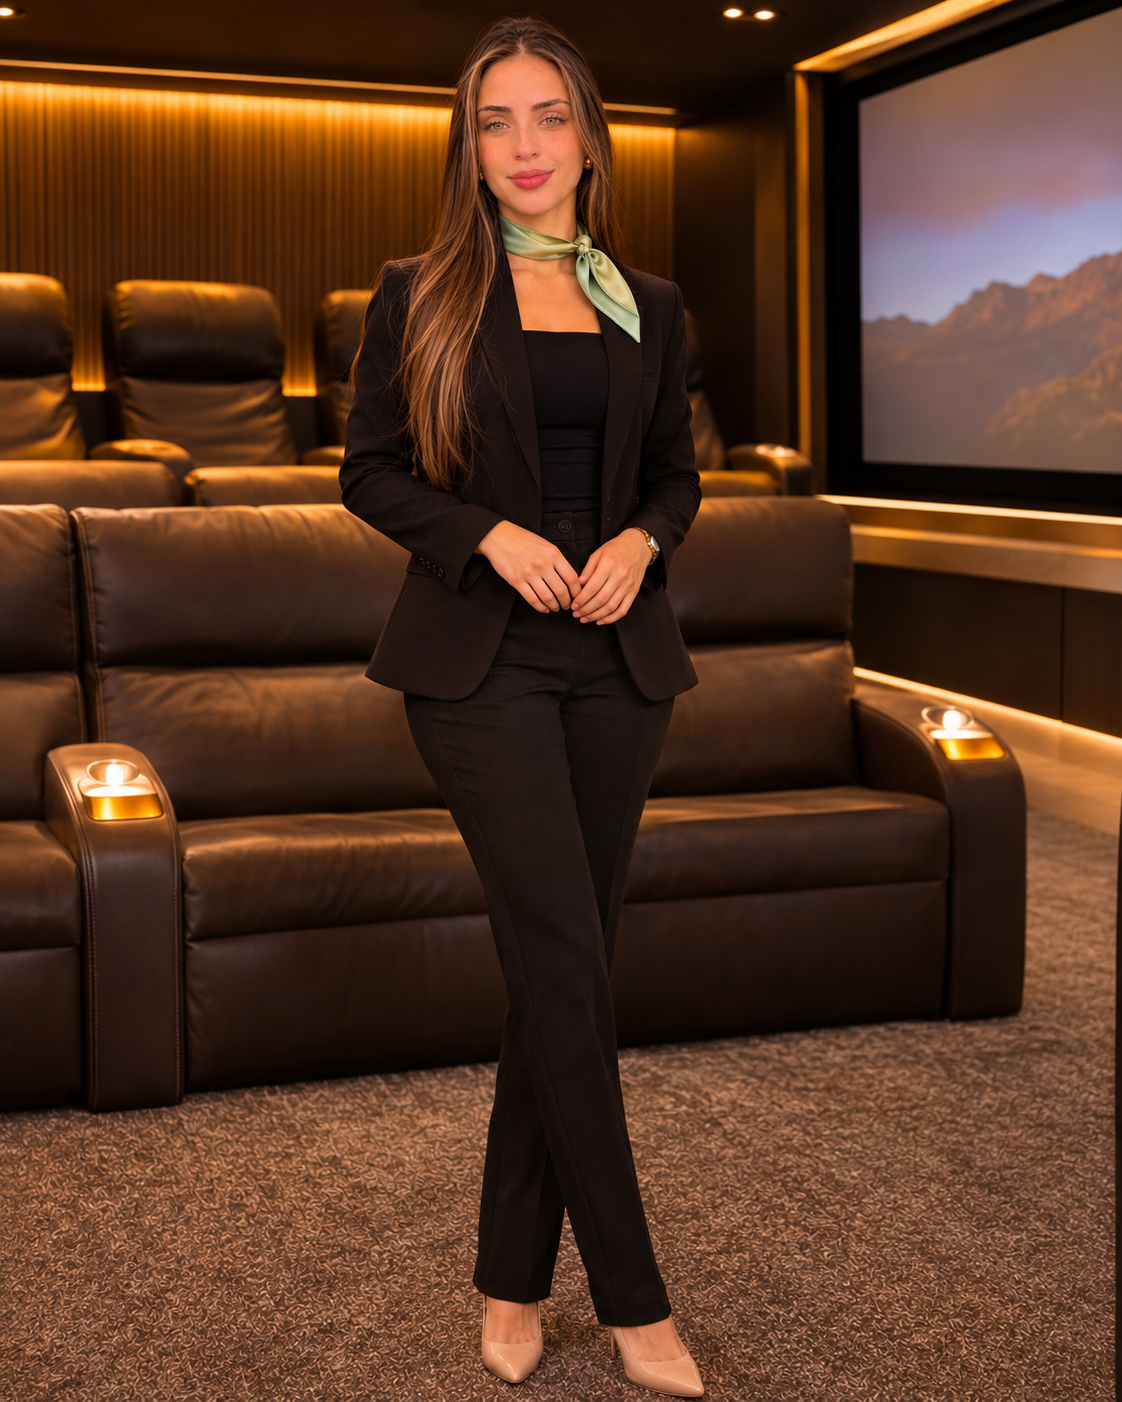
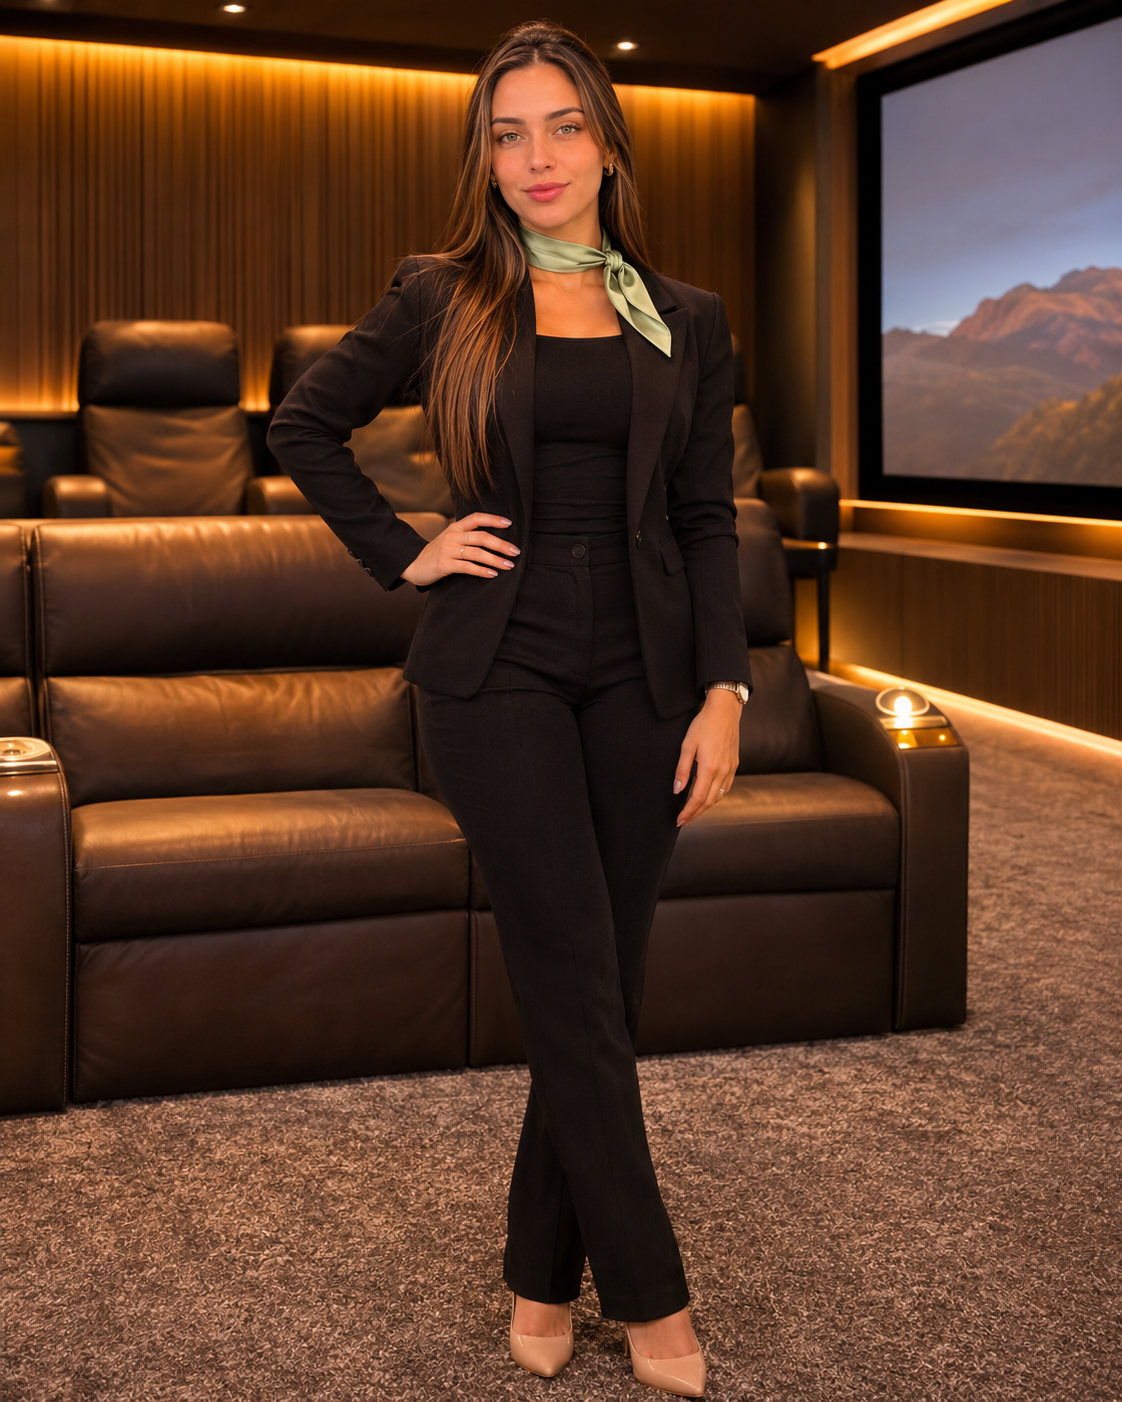
Iamin: corpo inteiro com proporções reais
Claude-Session: https://claude.ai/code/session_01MtAUW2QeYHVVc3jE7ME1dS

diff --git a/automacao/iamin/FICHA.md b/automacao/iamin/FICHA.md
@@ -5,7 +5,7 @@ Referências: iamin_natural_living.png (rosto e cabelo aprovados — principal) 
 
 - Rosto: igual às referências (olhos verdes, sobrancelhas marcadas, lábios cheios em tom rosado, pele clara levemente dourada).
 - Cabelo: NATURAL da Yasmin — castanho com reflexos/mechas mais claras, liso, longo, repartido ao meio. Nunca loiro.
-- Corpo: 1,64 m. Em corpo inteiro: silhueta fina e alongada, pernas finas e longas, quadril estreito, cintura marcada; calça de cintura alta e corte reto; câmera na altura do peito, lente 50mm.
+- Corpo: 1,64 m, corpo bem distribuído e natural como na foto real da Yasmin (cintura definida, quadril e pernas proporcionais — nem mais magra nem mais larga). Calça de cintura alta e corte reto; câmera na altura do peito, lente 50mm.
 - Assinatura: lenço de seda fino verde-menta no pescoço (cor da MOVE). Brincos pequenos de ouro.
 - Looks: blazer preto sobre top preto (cinema/noite) ou blazer off-white com seda champanhe (living/dia).
 - Cenários: interiores de alto padrão (home cinema, living, varanda gourmet, suíte), luz quente.
